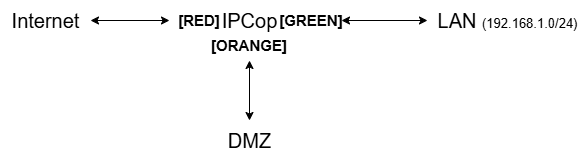
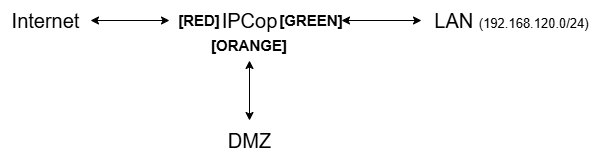
little things

diff --git a/public/index.html b/public/index.html
@@ -13,7 +13,6 @@
                 <a href="register.html"><button class="btnLogin-popup">Registro</button></a>
             </nav>
         </header>
-        <p class=texto>Hola</p>
         <div class="image-grid">
                 <a href="tutoriales/acessoremoto.html"><img src="images/teamviewer.png" title="TeamViewer"></a>
                 <a href="tutoriales/mailserver.html"><img src="images/mail.png" title="Servidores de Correo"></a>

diff --git a/public/index2.html b/public/index2.html
@@ -13,7 +13,7 @@
                 <a href="index.html"><button class="btnLogin-popup">Logoff</button></a>
             </nav>
         </header>
-        <p class=texto>Hola</p>
+
         <div class="image-grid">
                 <a href="tutoriales/acessoremoto2.html"><img src="images/teamviewer.png" title="TeamViewer"></a>
                 <a href="tutoriales/mailserver2.html"><img src="images/mail.png" title="Servidores de Correo"></a>

diff --git a/public/tutoriales/firewall2.html b/public/tutoriales/firewall2.html
@@ -54,8 +54,9 @@
       <section>
         <h2 id=web>Acceso a la Interfaz Web</h2>
         <p>Una vez instalado, accede desde un navegador en la red GREEN usando la dirección:</p>
-        <pre>https://192.168.1.1:8443</pre>
+        <pre>https://192.168.120.1:8443</pre>
         <p>Usuario: <strong>admin</strong></p>
+        <img src="images/firewall.png" width=650 height=400>
       </section>
 
       <section>
